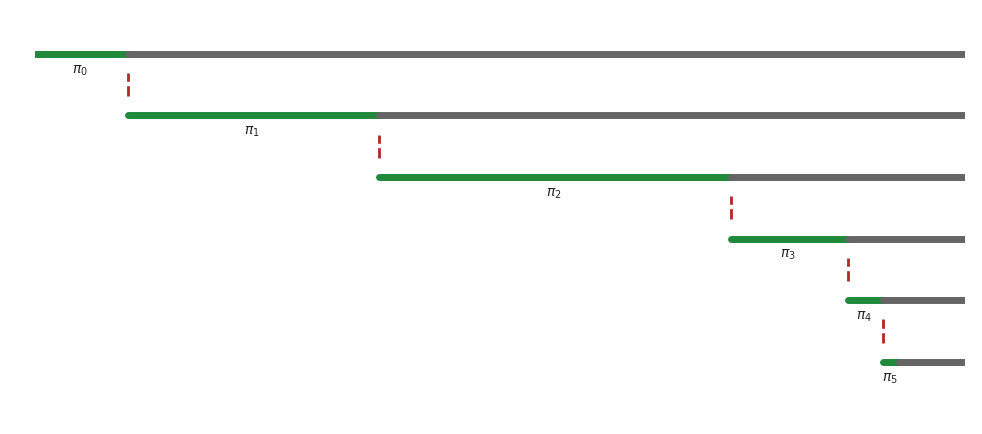
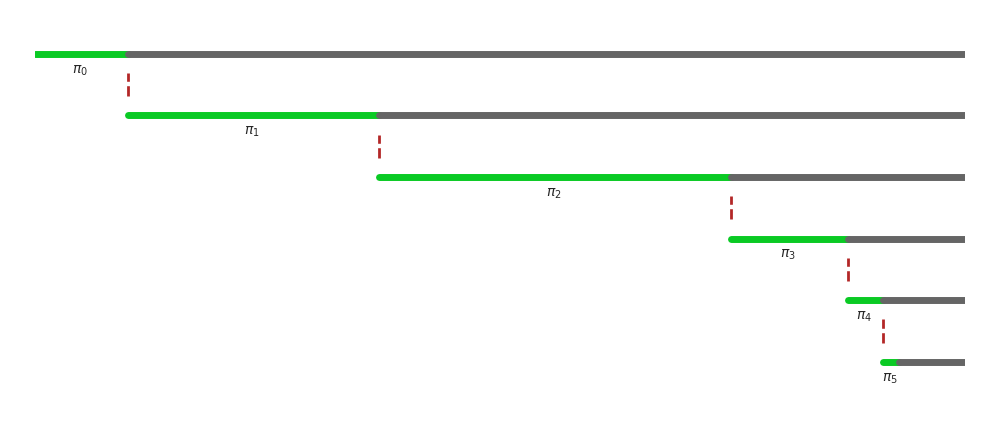
last checks

diff --git a/dirichlet.py b/dirichlet.py
@@ -5,7 +5,7 @@ import numpy as np
 import scipy.stats as stats
 
 plt.style.use('seaborn')
-matplotlib.rc('font', size=15)
+matplotlib.rc('font', size=18)
 
 fig = plt.figure(figsize=(12,5), frameon=False)
 
@@ -16,7 +16,7 @@ ax.set_xlim([0, 10])
 
 vlw = 5
 left_bar_c='#656565'
-active_bar_c='#20893b'
+active_bar_c='#0aca24'
 
 """ PLOT"""
 alturas = np.linspace(9, 1, 6)#[9,7,5,3,1]
